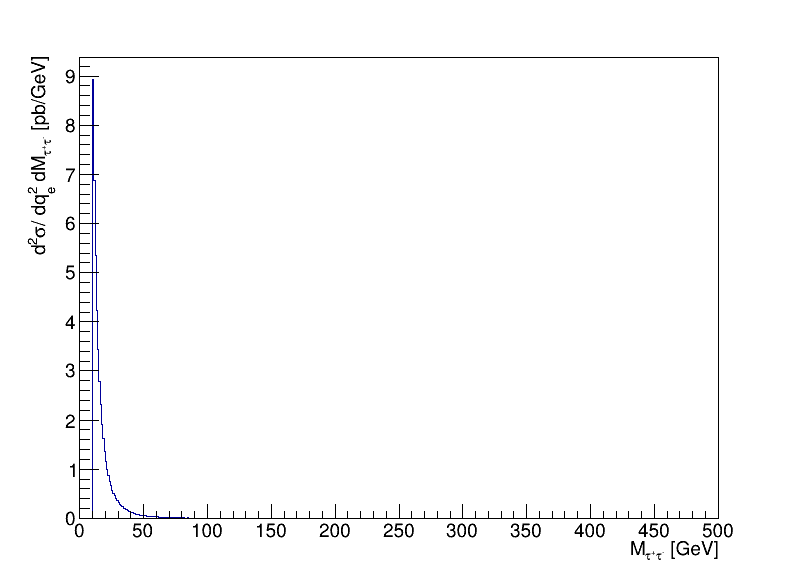
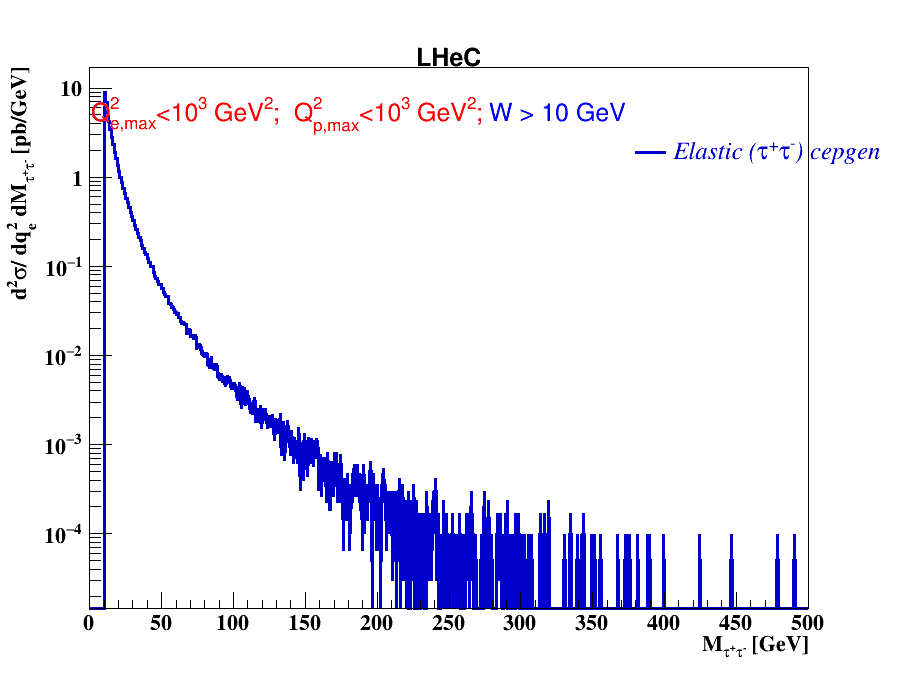
lpair_tau_tau_E_Different_dSigma_dq2e_dM
lpair_tau_tau_E_Different_dSigma_dq2e_dM

Changed region(s): [[0.0, 0.0625, 0.9323, 0.9688], [0.6917, 0.1875, 0.9925, 0.25], [0.1504, 0.3438, 0.1805, 0.4375]]

diff --git a/cepgen-lpair_elastic_inelastic/lpair_tau_tau_E_Different_dSigma_dq2e_dM/CalculateAndPlot.C b/cepgen-lpair_elastic_inelastic/lpair_tau_tau_E_Different_dSigma_dq2e_dM/CalculateAndPlot.C
@@ -5,6 +5,8 @@
 #include <TH2.h>
 #include <TCanvas.h>
 #include <TStyle.h>
+#include <TLegend.h>
+#include <TLatex.h>
 
 void CalculateAndPlot() {
     gStyle->SetOptStat(0);
@@ -88,11 +90,43 @@ void CalculateAndPlot() {
     histSingleq2->Write();
     outputFile->Close();
 
+    // Define legend and text
+    TLegend *leg = new TLegend(0.70, 0.70, 0.90, 0.85);
+    leg->SetBorderSize(0);
+    leg->SetTextSize(0.04);
+    leg->SetTextFont(12);
+    leg->SetFillStyle(0);
+
+    TLatex *t2a = new TLatex(0.5, 0.9, "#bf{LHeC}");
+    t2a->SetNDC();
+    t2a->SetTextFont(42);
+    t2a->SetTextSize(0.04);
+    t2a->SetTextAlign(20);
+
+    TLatex *t3a = new TLatex(0.40, 0.80, "Q^{2}_{e,max}<10^{3} GeV^{2};  Q^{2}_{p,max}<10^{3} GeV^{2}; #color[4]{W > 10 GeV}");
+    t3a->SetNDC();
+    t3a->SetTextFont(42);
+    t3a->SetTextSize(0.04);
+    t3a->SetTextAlign(20);
+    t3a->SetTextColor(2);
+
     // Plot the double differential cross-section vs. Mll
-    TCanvas *canvasMll = new TCanvas("canvasMll", "Double Differential Cross-Section vs M_{#tau^{+}#tau^{-}}", 800, 600);
+    TCanvas *canvasMll = new TCanvas("canvasMll", "Double Differential Cross-Section vs M_{#tau^{+}#tau^{-}}", 900, 700);
     histMll->GetXaxis()->SetTitle("M_{#tau^{+}#tau^{-}} [GeV]");
+    histMll->GetXaxis()->SetLabelFont(22);
+    histMll->GetXaxis()->SetTitleFont(22);
     histMll->GetYaxis()->SetTitle("d^{2}#sigma/ dq^{2}_{e} dM_{#tau^{+}#tau^{-}} [pb/GeV]");
-    histMll->Draw("hist");
+    histMll->GetYaxis()->SetLabelFont(22);
+    histMll->GetYaxis()->SetTitleFont(22);
+    histMll->SetLineWidth(3.0);
+    histMll->SetLineColor(kBlue + 1);
+    histMll->Draw("HIST E");
+    canvasMll->SetLogy(1);
+    canvasMll->SetLogx(0);
+    leg->AddEntry(histMll, "Elastic (#tau^{+}#tau^{-}) cepgen", "L")->SetTextColor(kBlue + 1);
+    leg->Draw("same");
+    t2a->Draw("same");
+    t3a->Draw("same");
     canvasMll->SaveAs("double_differential_cross_section_vs_Mll.png");
 
     // Calculate area under the Mll histogram
@@ -100,11 +134,21 @@ void CalculateAndPlot() {
     std::cout << "areaMll = " << areaMll << " pb" << std::endl;
 
     // Plot the double differential cross-section vs. q2
-    TCanvas *canvasq2 = new TCanvas("canvasq2", "Double Differential Cross-Section vs q^{2}_{e}", 800, 600);
+    TCanvas *canvasq2 = new TCanvas("canvasq2", "Double Differential Cross-Section vs q^{2}_{e}", 900, 700);
     histq2->GetXaxis()->SetTitle("q^{2}_{e} [GeV^{2}]");
+    histq2->GetXaxis()->SetLabelFont(22);
+    histq2->GetXaxis()->SetTitleFont(22);
     histq2->GetYaxis()->SetTitle("d^{2}#sigma/ dq^{2}_{e} dM_{#tau^{+}#tau^{-}} [pb/GeV^{2}]");
-    histq2->GetXaxis()->SetRangeUser(0, 1000); // Explicitly set the range
-    histq2->Draw("hist");
+    histq2->GetYaxis()->SetLabelFont(22);
+    histq2->GetYaxis()->SetTitleFont(22);
+    histq2->SetLineWidth(3.0);
+    histq2->SetLineColor(kBlue + 1);
+    histq2->Draw("HIST E");
+    canvasq2->SetLogy(1);
+    canvasq2->SetLogx(0);
+    leg->Draw("same");
+    t2a->Draw("same");
+    t3a->Draw("same");
     canvasq2->SaveAs("double_differential_cross_section_vs_q2.png");
 
     // Calculate area under the q2 histogram
@@ -112,63 +156,39 @@ void CalculateAndPlot() {
     std::cout << "areaq2 = " << areaq2 << " pb" << std::endl;
 
     // Plot the 2D histogram
-    TCanvas *canvas2D = new TCanvas("canvas2D", "Double Differential Cross-Section 2D", 800, 600);
+    TCanvas *canvas2D = new TCanvas("canvas2D", "Double Differential Cross-Section vs q^{2}_{e} and M_{#tau^{+}#tau^{-}}", 900, 700);
     hist2D->GetXaxis()->SetTitle("q^{2}_{e} [GeV^{2}]");
+    hist2D->GetXaxis()->SetLabelFont(22);
+    hist2D->GetXaxis()->SetTitleFont(22);
     hist2D->GetYaxis()->SetTitle("M_{#tau^{+}#tau^{-}} [GeV]");
+    hist2D->GetYaxis()->SetLabelFont(22);
+    hist2D->GetYaxis()->SetTitleFont(22);
     hist2D->GetZaxis()->SetTitle("d^{2}#sigma/ dq^{2}_{e} dM_{#tau^{+}#tau^{-}} [pb/GeV^{2}]");
-    hist2D->Draw("colz");
+    hist2D->GetZaxis()->SetLabelFont(22);
+    hist2D->GetZaxis()->SetTitleFont(22);
+    hist2D->Draw("COLZ");
+    canvas2D->SetLogy(1);
+    canvas2D->SetLogx(0);
+    t2a->Draw("same");
+    t3a->Draw("same");
     canvas2D->SaveAs("double_differential_cross_section_2D.png");
 
     // Calculate area under the 2D histogram
     double area2D = hist2D->Integral();
     std::cout << "area2D = " << area2D << " pb" << std::endl;
 
-
-    // Plot the single differential cross-section vs. Mll
-    TCanvas *canvasSingleMll = new TCanvas("canvasSingleMll", "Single Differential Cross-Section vs M_{#tau^{+}#tau^{-}}", 800, 600);
-    histSingleMll->GetXaxis()->SetTitle("M_{#tau^{+}#tau^{-}} [GeV]");
-    histSingleMll->GetYaxis()->SetTitle("d#sigma/ dM_{#tau^{+}#tau^{-}} [pb/GeV]");
-    histSingleMll->Draw("hist");
-    canvasSingleMll->SaveAs("single_differential_cross_section_vs_Mll.png");
-
-    // Calculate area under the single differential Mll histogram
-    double areaSingleMll = histSingleMll->Integral();
-    std::cout << "areaSingleMll = " << areaSingleMll << " pb" << std::endl;
-
-
-    // Plot the single differential cross-section vs. q2
-    TCanvas *canvasSingleq2 = new TCanvas("canvasSingleq2", "Single Differential Cross-Section vs q^{2}_{e}", 800, 600);
-    histSingleq2->GetXaxis()->SetTitle("q^{2}_{e} [GeV^{2}]");
-    histSingleq2->GetYaxis()->SetTitle("d#sigma/ dq^{2}_{e} [pb/GeV^{2}]");
-    histSingleq2->GetXaxis()->SetRangeUser(0, 1000); // Explicitly set the range
-    histSingleq2->Draw("hist");
-    canvasSingleq2->SaveAs("single_differential_cross_section_vs_q2.png");
-
-    // Calculate area under the single differential q2 histogram
-    double areaSingleq2 = histSingleq2->Integral();
-    std::cout << "areaSingleq2 = " << areaSingleq2 << " pb" << std::endl;
-
-    // Clean up
+    // Cleanup
+    delete leg;
+    delete t2a;
+    delete t3a;
+    delete canvasMll;
+    delete canvasq2;
+    delete canvas2D;
     delete histMll;
     delete histq2;
     delete hist2D;
     delete histSingleMll;
     delete histSingleq2;
+    inputFile->Close();
     delete inputFile;
-    delete outputFile;
-    delete canvasMll;
-    delete canvasq2;
-    delete canvas2D;
-    delete canvasSingleMll;
-    delete canvasSingleq2;
-}
-
-int main() {
-    // Set the global style
-    gStyle->SetOptStat(1);
-
-    // Calculate and plot the double differential cross-section
-    CalculateAndPlot();
-
-    return 0;
 }
